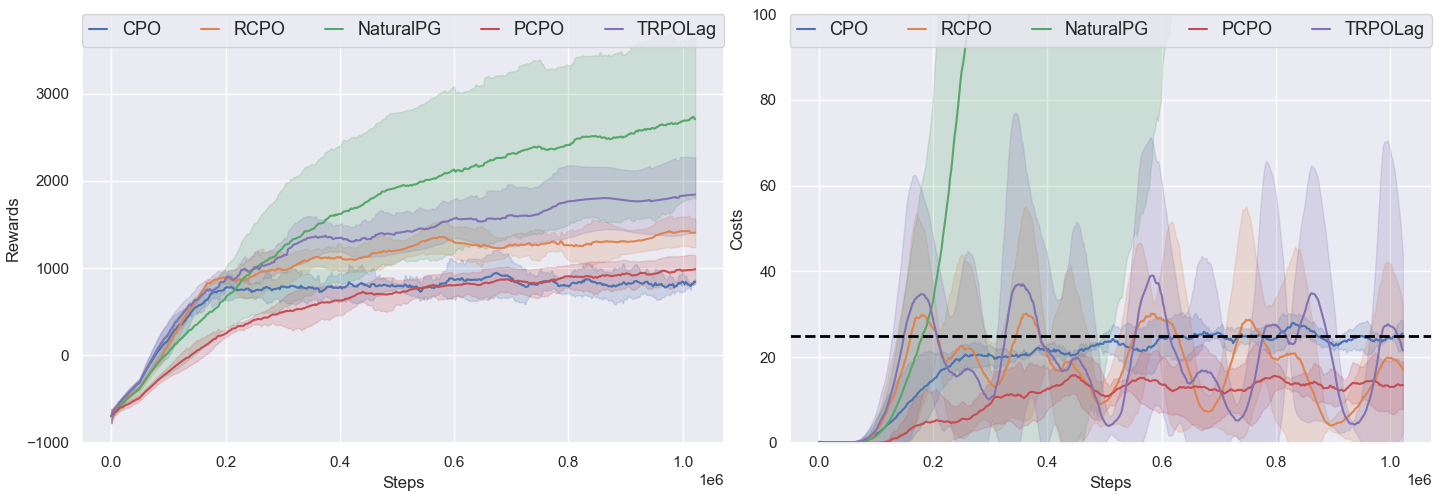
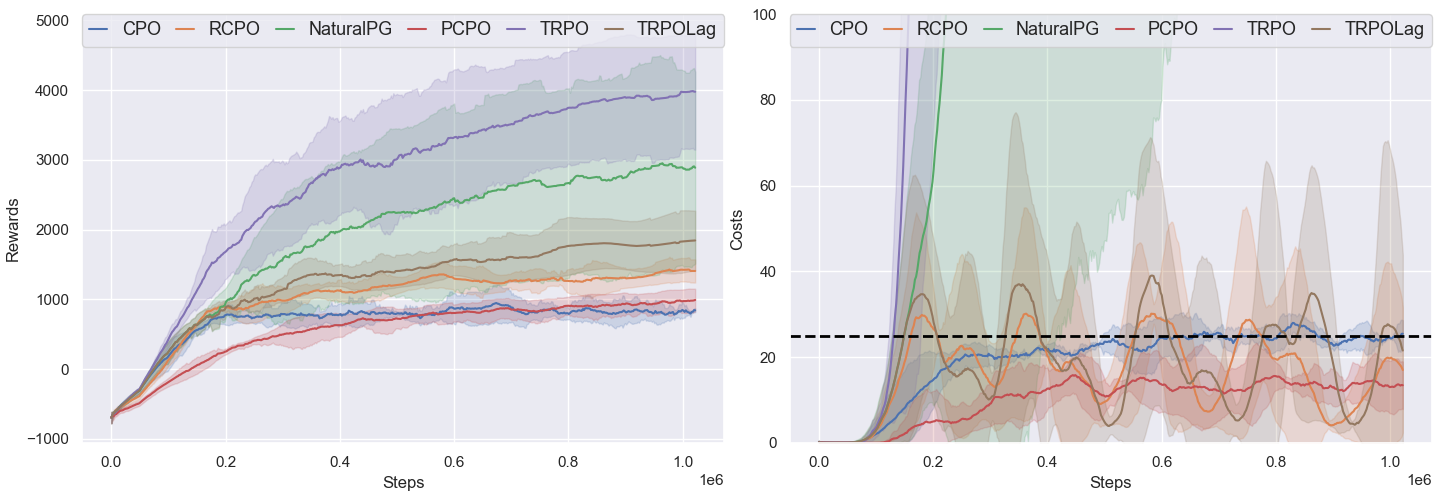
chore(on-policy): update benchmark performance for first-order algorithms (#148)

diff --git a/omnisafe/algorithms/on_policy/README.md b/omnisafe/algorithms/on_policy/README.md
@@ -8,12 +8,23 @@ OmniSafe's Mujoco Velocity Benchmark evaluated the performance of OmniSafe algor
 
 Supported algorithms are listed below:
 
-- [X] **[NeurIPS 2001]** [A Natural Policy Gradient (NaturalPG))](https://proceedings.neurips.cc/paper/2001/file/4b86abe48d358ecf194c56c69108433e-Paper.pdf)
-- [X] **[PMLR 2015]** [Trust Region Policy Optimization (TRPO)](https://arxiv.org/abs/1502.05477)
-- [X] [The Lagrange version of TRPO (TRPO-Lag)](https://cdn.openai.com/safexp-short.pdf)
-- [X] **[ICML 2017]** [Constrained Policy Optimization (CPO)](https://proceedings.mlr.press/v70/achiam17a)
-- [X] **[ICML 2017]** [Proximal Constrained Policy Optimization (PCPO)](https://proceedings.mlr.press/v70/achiam17a)
-- [X] **[ICLR 2019]** [Reward Constrained Policy Optimization (RCPO)](https://openreview.net/forum?id=SkfrvsA9FX)
+**First-Order**
+
+- **[NIPS 1999]** [Policy Gradient(PG)](https://papers.nips.cc/paper/1999/file/464d828b85b0bed98e80ade0a5c43b0f-Paper.pdf)
+- [Proximal Policy Optimization (PPO)](https://arxiv.org/pdf/1707.06347.pdf)
+- [The Lagrange version of PPO (PPO-Lag)](https://cdn.openai.com/safexp-short.pdf)
+- **[IJCAI 2022]** [Penalized Proximal Policy Optimization for Safe Reinforcement Learning(P3O)]( https://arxiv.org/pdf/2205.11814.pdf)
+- **[NeurIPS 2020]** [First Order Constrained Optimization in Policy Space (FOCOPS)](https://arxiv.org/abs/2002.06506)
+- **[NeurIPS 2022]**  [Constrained Update Projection Approach to Safe Policy Optimization (CUP)](https://arxiv.org/abs/2209.07089)
+
+**Second-Order**
+
+- **[NeurIPS 2001]** [A Natural Policy Gradient (NaturalPG))](https://proceedings.neurips.cc/paper/2001/file/4b86abe48d358ecf194c56c69108433e-Paper.pdf)
+- **[PMLR 2015]** [Trust Region Policy Optimization (TRPO)](https://arxiv.org/abs/1502.05477)
+- [The Lagrange version of TRPO (TRPO-Lag)](https://cdn.openai.com/safexp-short.pdf)
+- **[ICML 2017]** [Constrained Policy Optimization (CPO)](https://proceedings.mlr.press/v70/achiam17a)
+- **[ICML 2017]** [Proximal Constrained Policy Optimization (PCPO)](https://proceedings.mlr.press/v70/achiam17a)
+- **[ICLR 2019]** [Reward Constrained Policy Optimization (RCPO)](https://openreview.net/forum?id=SkfrvsA9FX)
 
 ## Safety-Gymnasium
 
@@ -24,16 +35,17 @@ pip install safety_gymnasium
 ```
 
 ## Run the Benchmark
+
 You can set the main function of ``examples/benchmarks/experimrnt_grid.py`` as:
 
 ```python
 if __name__ == '__main__':
-    eg = ExperimentGrid(exp_name='Safety_Gymnasium_Goal')
+    eg = ExperimentGrid(exp_name='On-Policy-Benchmarks')
 
     # set up the algorithms.
     base_policy = ['PolicyGradient', 'NaturalPG', 'TRPO', 'PPO']
     naive_lagrange_policy = ['PPOLag', 'TRPOLag', 'RCPO', 'OnCRPO', 'PDO']
-    first_order_policy = ['CUP', 'FOCOPS']
+    first_order_policy = ['CUP', 'FOCOPS', 'P3O']
     second_order_policy = ['CPO', 'PCPO']
 
     eg.add('algo', base_policy + naive_lagrange_policy + first_order_policy + second_order_policy)
@@ -53,6 +65,9 @@ if __name__ == '__main__':
         'SafetyHumanoidVelocity-v4'
         ])
     eg.add('seed', [0, 5, 10, 15, 20])
+
+    # total experiment num must can be divided by num_pool
+    # meanwhile, users should decide this value according to their machine
     eg.run(train, num_pool=5)
 ```
 
@@ -109,12 +124,34 @@ For example, if I train ``PPOLag`` in ``SafetyHumanoidVelocity-v4``
 <center>
     <img style="border-radius: 0.3125em;
     box-shadow: 0 2px 4px 0 rgba(34,36,38,.12),0 2px 10px 0 rgba(34,36,38,.08);"
+    src="./benchmarks/first_order_ant.png">
+    <br>
+    <div style="color:orange; border-bottom: 1px solid #d9d9d9;
+    display: inline-block;
+    color: #999;
+    padding: 2px;">SafetyAntVelocity-v4</div>
+</center>
+
+<center>
+    <img style="border-radius: 0.3125em;
+    box-shadow: 0 2px 4px 0 rgba(34,36,38,.12),0 2px 10px 0 rgba(34,36,38,.08);"
     src="./benchmarks/second_order_ant.png">
     <br>
     <div style="color:orange; border-bottom: 1px solid #d9d9d9;
     display: inline-block;
     color: #999;
     padding: 2px;">SafetyAntVelocity-v4</div>
+</center>
+
+<center>
+    <img style="border-radius: 0.3125em;
+    box-shadow: 0 2px 4px 0 rgba(34,36,38,.12),0 2px 10px 0 rgba(34,36,38,.08);"
+    src="./benchmarks/first_order_halfcheetah.png">
+    <br>
+    <div style="color:orange; border-bottom: 1px solid #d9d9d9;
+    display: inline-block;
+    color: #999;
+    padding: 2px;">SafetyHalfCheetahVelocity-v4</div>
 </center>
 
 <center>
@@ -131,12 +168,34 @@ For example, if I train ``PPOLag`` in ``SafetyHumanoidVelocity-v4``
 <center>
     <img style="border-radius: 0.3125em;
     box-shadow: 0 2px 4px 0 rgba(34,36,38,.12),0 2px 10px 0 rgba(34,36,38,.08);"
+    src="./benchmarks/first_order_hopper.png">
+    <br>
+    <div style="color:orange; border-bottom: 1px solid #d9d9d9;
+    display: inline-block;
+    color: #999;
+    padding: 2px;">SafetyHopperVelocity-v4</div>
+</center>
+
+<center>
+    <img style="border-radius: 0.3125em;
+    box-shadow: 0 2px 4px 0 rgba(34,36,38,.12),0 2px 10px 0 rgba(34,36,38,.08);"
     src="./benchmarks/second_order_hopper.png">
     <br>
     <div style="color:orange; border-bottom: 1px solid #d9d9d9;
     display: inline-block;
     color: #999;
     padding: 2px;">SafetyHopperVelocity-v4</div>
+</center>
+
+<center>
+    <img style="border-radius: 0.3125em;
+    box-shadow: 0 2px 4px 0 rgba(34,36,38,.12),0 2px 10px 0 rgba(34,36,38,.08);"
+    src="./benchmarks/first_order_humanoid.png">
+    <br>
+    <div style="color:orange; border-bottom: 1px solid #d9d9d9;
+    display: inline-block;
+    color: #999;
+    padding: 2px;">SafetyHumanoidVelocity-v4</div>
 </center>
 
 <center>
@@ -153,12 +212,34 @@ For example, if I train ``PPOLag`` in ``SafetyHumanoidVelocity-v4``
 <center>
     <img style="border-radius: 0.3125em;
     box-shadow: 0 2px 4px 0 rgba(34,36,38,.12),0 2px 10px 0 rgba(34,36,38,.08);"
+    src="./benchmarks/first_order_walker2d.png">
+    <br>
+    <div style="color:orange; border-bottom: 1px solid #d9d9d9;
+    display: inline-block;
+    color: #999;
+    padding: 2px;">SafetyWalker2dVelocity-v4</div>
+</center>
+
+<center>
+    <img style="border-radius: 0.3125em;
+    box-shadow: 0 2px 4px 0 rgba(34,36,38,.12),0 2px 10px 0 rgba(34,36,38,.08);"
     src="./benchmarks/second_order_walker2d.png">
     <br>
     <div style="color:orange; border-bottom: 1px solid #d9d9d9;
     display: inline-block;
     color: #999;
     padding: 2px;">SafetyWalker2dVelocity-v4</div>
+</center>
+
+<center>
+    <img style="border-radius: 0.3125em;
+    box-shadow: 0 2px 4px 0 rgba(34,36,38,.12),0 2px 10px 0 rgba(34,36,38,.08);"
+    src="./benchmarks/first_order_swimmer.png">
+    <br>
+    <div style="color:orange; border-bottom: 1px solid #d9d9d9;
+    display: inline-block;
+    color: #999;
+    padding: 2px;">SafetySwimmerVelocity-v4</div>
 </center>
 
 <center>
@@ -172,15 +253,20 @@ For example, if I train ``PPOLag`` in ``SafetyHumanoidVelocity-v4``
     padding: 2px;">SafetySwimmerVelocity-v4</div>
 </center>
 
+
 ## Experiment Analysis
 
 ### Hyperparameters
 
-#### Second Order Methods Specific Hyperparameters
+#### First-Order Methods Specific Hyperparameters
 
-- ``algo_cfgs:kl_early_stop``: Whether to use early stop for KL divergence. In the second order methods, we use line search to find the proper step size. If the KL divergence is too large, we will stop the line search and use the previous step size. So we always set this hyperparameter to ``False``.
+**We are continuously improving performance for first-order algorithms and finding better hyperparameters and will release an ultimate version as soon as possible. Meanwhile, we are happy to receive any advice from users, feel free for opening PRs or issues.**
 
-- ``model_cfgs:actor:lr``: The learning rate of the actor network. The second order methods use the actor network update the policy by directly setting the parameters of the policy network. So we do not need to set the learning rate of the policy network, which is set to ``None``.
+#### Second-Order Methods Specific Hyperparameters
+
+- ``algo_cfgs:kl_early_stop``: Whether to use early stop for KL divergence. In the second-order methods, we use line search to find the proper step size. If the KL divergence is too large, we will stop the line search and use the previous step size. So we always set this hyperparameter to ``False``.
+
+- ``model_cfgs:actor:lr``: The learning rate of the actor network. The second-order methods use the actor network update the policy by directly setting the parameters of the policy network. So we do not need to set the learning rate of the policy network, which is set to ``None``.
 
 ### Some Hints
 
@@ -192,7 +278,7 @@ In our experiments, we found that somehyperparameters are important for the perf
 
 We have done some experiments to show the effect of these hyperparameters, and we log the best configuration for each algorithm in each environment. You can check it in the ``omnisafe/configs/on_policy``.
 
-In experiments, we found that the ``obs_normlize=True`` always performs better than ``obs_normlize=False`` in the second order methods. That means the reward would increase quicker if we normalize the observation. So we set ``obs_normlize=True`` in almost all the second order methods.
+In experiments, we found that the ``obs_normlize=True`` always performs better than ``obs_normlize=False`` in the second-order methods. That means the reward would increase quicker if we normalize the observation. So we set ``obs_normlize=True`` in almost all the second-order methods.
 
 Importantly, we found that the ``rew_normlize=True`` not always performs better than ``rew_normlize=False``, especially in the ``SafetyHopperVelocity-v4`` and ``SafetyWalker2dVelocity`` environment.
 
@@ -204,7 +290,77 @@ This hyperparamter depens on the number of CPU cores. We set it to 8 in our expe
 
 If you find that other hyperparameters perform better, please feel free to open an issue or pull request.
 
-### Experiment Results
+### First-Order Algorithms Experiment Results
+
+### PG(1M)
+
+|         Environment          | Reward (OmniSafe) | Cost (Omnisafe) |
+| :--------------------------: | :---------------: | :-------------: |
+|     SafetyAntVelocity-v4     |   1128.4±654.6    |   155.0±96.5    |
+| SafetyHalfCheetahVelocity-v4 |   1700.2±902.4    |   422.2±234.1   |
+|   SafetyHopperVelocity-v4    |    674.4±127.2    |   180.5±26.4    |
+|  SafetyWalker2dVelocity-v4   |    624.2±301.4    |   125.8±67.5    |
+|   SafetySwimmerVelocity-v4   |     37.7±8.2      |   695.0±230.3   |
+|  SafetyHumanoidVelocity-v4   |    612.7±131.6    |    38.9±17.8    |
+
+### PPO(1M)
+
+|         Environment          | Reward (OmniSafe) | Cost (Omnisafe) |
+| :--------------------------: | :---------------: | :-------------: |
+|     SafetyAntVelocity-v4     |   3012.2±1167.0   |   618.3±255.0   |
+| SafetyHalfCheetahVelocity-v4 |   3641.1±1202.3   |   812.8±219.1   |
+|   SafetyHopperVelocity-v4    |    685.2±132.8    |   170.2±25.7    |
+|  SafetyWalker2dVelocity-v4   |    723.0±175.3    |   141.0±30.8    |
+|   SafetySwimmerVelocity-v4   |     52.4±19.9     |   472.9±300.3   |
+|  SafetyHumanoidVelocity-v4   |    633.3±128.7    |    45.9±16.1    |
+
+### PPOLag(1M)
+
+|         Environment          | Reward (OmniSafe) | Cost (Omnisafe) |
+| :--------------------------: | :---------------: | :-------------: |
+|     SafetyAntVelocity-v4     |   2256.6±315.1    |    29.8±54.7    |
+| SafetyHalfCheetahVelocity-v4 |   2065.5±234.5    |     4.7±5.1     |
+|   SafetyHopperVelocity-v4    |    415.8±367.9    |    47.2±28.4    |
+|  SafetyWalker2dVelocity-v4   |    310.4±44.7     |    19.9±9.9     |
+|   SafetySwimmerVelocity-v4   |     22.0± 7.8     |    63.2±16.3    |
+|  SafetyHumanoidVelocity-v4   |    623.0±173.7    |    17.0±19.7    |
+
+### P3O(1M)
+
+|         Environment          | Reward (OmniSafe) | Cost (Omnisafe) |
+| :--------------------------: | :---------------: | :-------------: |
+|     SafetyAntVelocity-v4     |   1837.5±331.2    |    35.5±28.2    |
+| SafetyHalfCheetahVelocity-v4 |   1251.2±117.4    |    14.7±15.3    |
+|   SafetyHopperVelocity-v4    |    779.0±383.2    |    21.4±13.9    |
+|  SafetyWalker2dVelocity-v4   |   1493.1±515.5    |    27.9±26.7    |
+|   SafetySwimmerVelocity-v4   |     -8.8±14.3     |   125.0±58.5    |
+|  SafetyHumanoidVelocity-v4   |   1027.3±404.7    |     0.4±2.0     |
+
+### FOCOPS(1M)
+
+|         Environment          | Reward (OmniSafe) | Cost (Omnisafe) |
+| :--------------------------: | :---------------: | :-------------: |
+|     SafetyAntVelocity-v4     |   2022.0±226.6    |     4.5±5.6     |
+| SafetyHalfCheetahVelocity-v4 |   1759.8±414.4    |    31.3±55.2    |
+|   SafetyHopperVelocity-v4    |    255.4±190.0    |    10.2±12.4    |
+|  SafetyWalker2dVelocity-v4   |    346.3±100.2    |    22.1±16.1    |
+|   SafetySwimmerVelocity-v4   |     9.0±17.1      |   86.6 ±80.8    |
+|  SafetyHumanoidVelocity-v4   |    703.5±188.0    |    14.4±16.5    |
+
+### CUP(1M)
+
+|         Environment          | Reward (OmniSafe) | Cost (Omnisafe) |
+| :--------------------------: | :---------------: | :-------------: |
+|     SafetyAntVelocity-v4     |   1530.4±723.3    |    60.6±48.4    |
+| SafetyHalfCheetahVelocity-v4 |   1217.6±288.0    |    15.2±14.6    |
+|   SafetyHopperVelocity-v4    |    249.8±308.5    |    32.2±21.1    |
+|  SafetyWalker2dVelocity-v4   |    673.3±608.6    |    22.2±21.6    |
+|   SafetySwimmerVelocity-v4   |     1.2±19.3      |   113.9±57.0    |
+|  SafetyHumanoidVelocity-v4   |    535.0±78.2     |    16.3±13.6    |
+
+
+
+### Second-Order Algorithms Experiment Results
 
 #### NaturalPG(1M)
 
